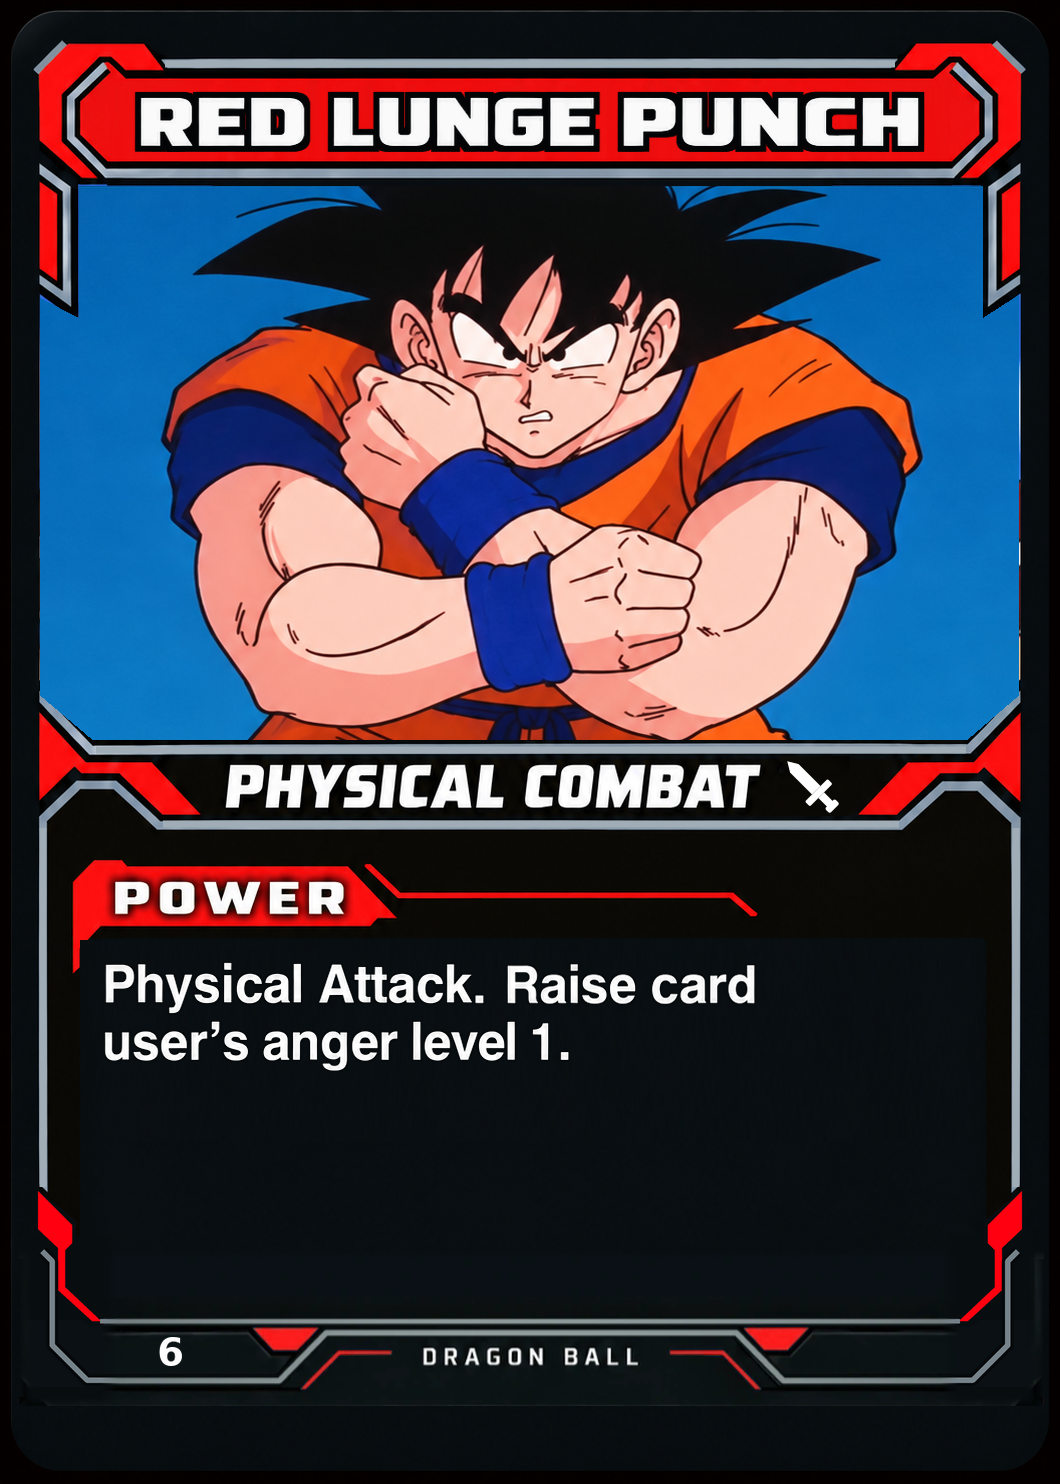
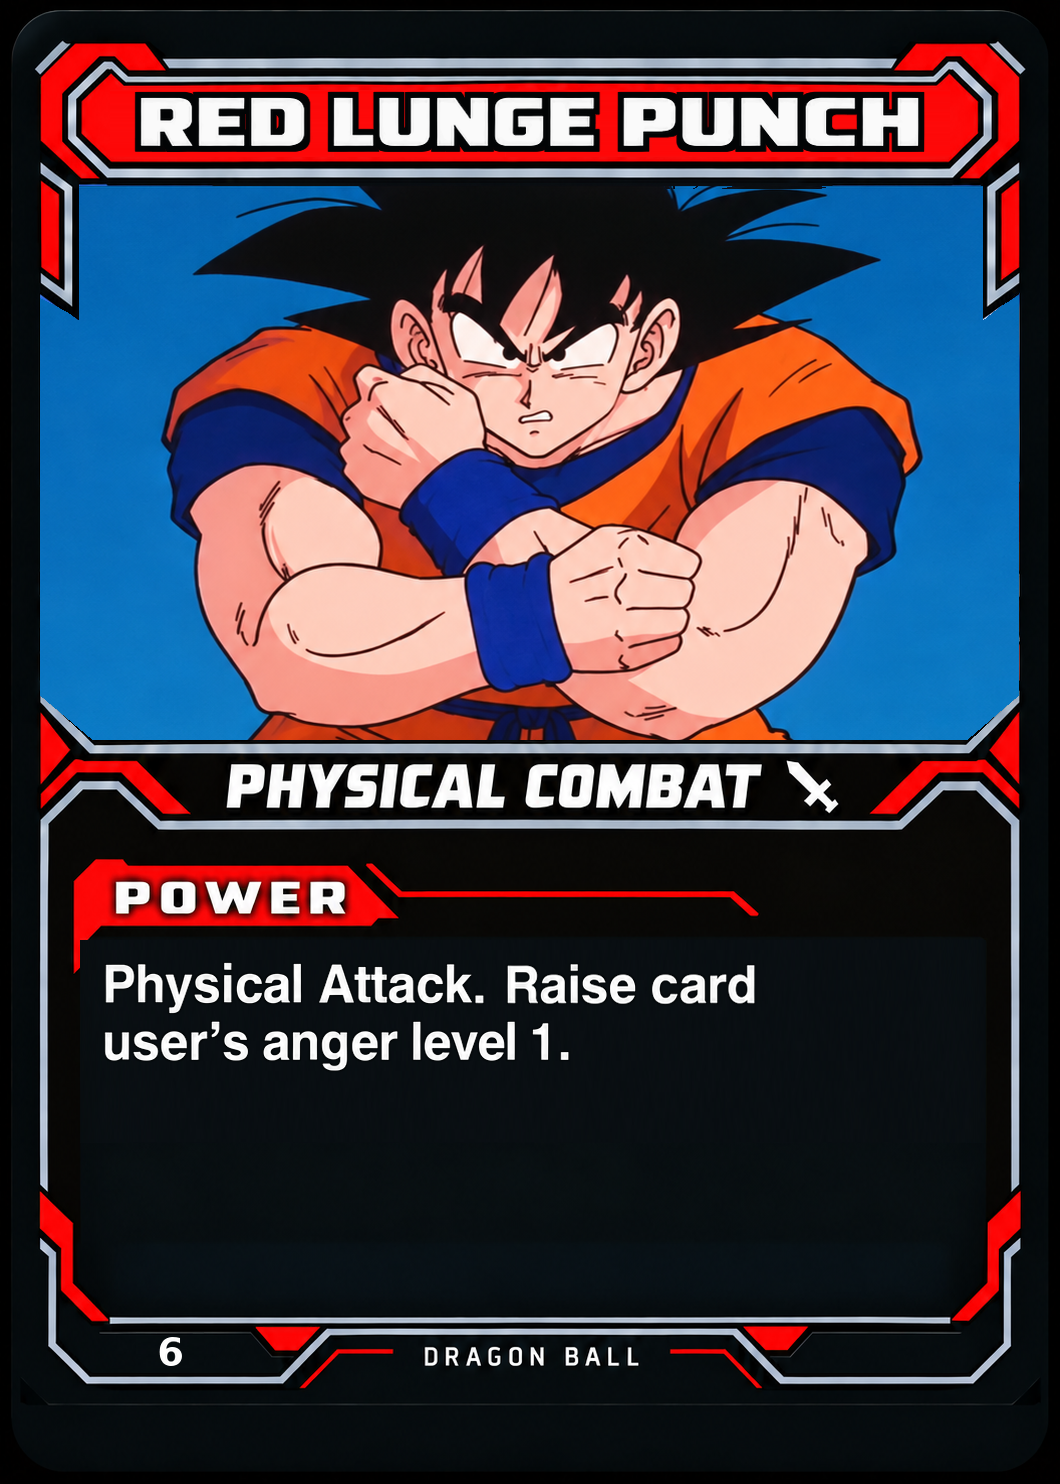
Publish approved connected frames and fresh Raditz artwork for Saiyan cards 1–10

diff --git a/public/cards/catalog.js b/public/cards/catalog.js
@@ -7,7 +7,7 @@ export const catalog = [
     "style": "Orange",
     "set": "Saiyan Saga",
     "status": "Ready",
-    "image": "/assets/cards/saiyan-001-orange-standing-fist-punch.webp?v=63a04d79ea",
+    "image": "/assets/cards/saiyan-001-orange-standing-fist-punch.webp?v=9edd108ec5",
     "width": 1060,
     "height": 1484,
     "source": "https://retrodbzccg.com/card-images/saiyan-saga-commons/"
@@ -20,7 +20,7 @@ export const catalog = [
     "style": "Orange",
     "set": "Saiyan Saga",
     "status": "Ready",
-    "image": "/assets/cards/saiyan-002-orange-one-knuckle-punch.webp?v=75589d1571",
+    "image": "/assets/cards/saiyan-002-orange-one-knuckle-punch.webp?v=817ee94947",
     "width": 1060,
     "height": 1484,
     "source": "https://retrodbzccg.com/card-images/saiyan-saga-commons/"
@@ -33,7 +33,7 @@ export const catalog = [
     "style": "Orange",
     "set": "Saiyan Saga",
     "status": "Ready",
-    "image": "/assets/cards/saiyan-003-orange-two-knuckle-punch.webp?v=f057b6b199",
+    "image": "/assets/cards/saiyan-003-orange-two-knuckle-punch.webp?v=cbd15f131c",
     "width": 1060,
     "height": 1484,
     "source": "https://retrodbzccg.com/card-images/saiyan-saga-commons/"
@@ -46,7 +46,7 @@ export const catalog = [
     "style": "Orange",
     "set": "Saiyan Saga",
     "status": "Ready",
-    "image": "/assets/cards/saiyan-004-orange-leg-sweep.webp?v=529d389bfb",
+    "image": "/assets/cards/saiyan-004-orange-leg-sweep.webp?v=f1a4007b32",
     "width": 1060,
     "height": 1484,
     "source": "https://retrodbzccg.com/card-images/saiyan-saga-commons/"
@@ -59,7 +59,7 @@ export const catalog = [
     "style": "Orange",
     "set": "Saiyan Saga",
     "status": "Ready",
-    "image": "/assets/cards/saiyan-005-orange-arm-bar.webp?v=16e311c3ae",
+    "image": "/assets/cards/saiyan-005-orange-arm-bar.webp?v=f3503ee080",
     "width": 1060,
     "height": 1484,
     "source": "https://retrodbzccg.com/card-images/saiyan-saga-commons/"
@@ -72,7 +72,7 @@ export const catalog = [
     "style": "Red",
     "set": "Saiyan Saga",
     "status": "Ready",
-    "image": "/assets/cards/saiyan-006-red-lunge-punch.webp?v=793a3678a9",
+    "image": "/assets/cards/saiyan-006-red-lunge-punch.webp?v=6db40b2965",
     "width": 1060,
     "height": 1484,
     "source": "https://retrodbzccg.com/card-images/saiyan-saga-commons/"
@@ -85,7 +85,7 @@ export const catalog = [
     "style": "Red",
     "set": "Saiyan Saga",
     "status": "Ready",
-    "image": "/assets/cards/saiyan-007-red-reverse-punch.webp?v=1d1607a072",
+    "image": "/assets/cards/saiyan-007-red-reverse-punch.webp?v=9971330382",
     "width": 1060,
     "height": 1484,
     "source": "https://retrodbzccg.com/card-images/saiyan-saga-commons/"
@@ -98,7 +98,7 @@ export const catalog = [
     "style": "Red",
     "set": "Saiyan Saga",
     "status": "Ready",
-    "image": "/assets/cards/saiyan-008-red-knife-hand.webp?v=c1f3073cc3",
+    "image": "/assets/cards/saiyan-008-red-knife-hand.webp?v=2d6b4fa16d",
     "width": 1060,
     "height": 1484,
     "source": "https://retrodbzccg.com/card-images/saiyan-saga-commons/"
@@ -111,7 +111,7 @@ export const catalog = [
     "style": "Red",
     "set": "Saiyan Saga",
     "status": "Ready",
-    "image": "/assets/cards/saiyan-009-red-palm-heel-strike.webp?v=4f13ff0888",
+    "image": "/assets/cards/saiyan-009-red-palm-heel-strike.webp?v=95840730fb",
     "width": 1060,
     "height": 1484,
     "source": "https://retrodbzccg.com/card-images/saiyan-saga-commons/"
@@ -124,7 +124,7 @@ export const catalog = [
     "style": "Red",
     "set": "Saiyan Saga",
     "status": "Ready",
-    "image": "/assets/cards/saiyan-010-red-elbow-strike.webp?v=1cc6d47ded",
+    "image": "/assets/cards/saiyan-010-red-elbow-strike.webp?v=7eeb944710",
     "width": 1060,
     "height": 1484,
     "source": "https://retrodbzccg.com/card-images/saiyan-saga-commons/"

diff --git a/tools/card-frames/render-connected-frame-001-010.py b/tools/card-frames/render-connected-frame-001-010.py
@@ -1,0 +1,127 @@
+"""Export cards 1–10 using one approved frame and fresh imagegen Raditz art.
+
+The common frame is immutable. Existing artwork, title lettering, rules and
+number positions are taken from the prior published cards; #5 uses fresh art.
+This prevents independent generative edits from changing border geometry.
+Requires Pillow and NumPy.
+"""
+from pathlib import Path
+import hashlib
+import io
+import json
+import subprocess
+import numpy as np
+from PIL import Image, ImageDraw, ImageFilter
+
+ROOT = Path(__file__).resolve().parents[2]
+SOURCE_COMMIT = '8bff6c3c430850a13d20a77db203a7b0b42676cb'
+manifest_path = ROOT / 'docs/saiyan-approved-frame-001-010.json'
+manifest = json.loads(manifest_path.read_text())
+catalog_path = ROOT / 'public/cards/catalog.js'
+catalog = catalog_path.read_text()
+master = Image.open(Path(__file__).with_name('approved-connected-frame-raditz.png')).convert('RGB')
+assert master.size == (1060, 1484)
+W, H = master.size
+
+# Content regions do not touch any of the approved border rails or accents.
+art_mask = Image.new('L', (W, H))
+d = ImageDraw.Draw(art_mask)
+d.polygon([(79,183),(982,183),(982,321),(1018,292),(1018,695),
+           (968,741),(92,741),(40,695),(40,292),(79,321)], fill=255)
+title_box = (110, 90, 950, 157)
+rules_box = (80, 938, 987, 1143)
+number_box = (136, 1332, 204, 1373)
+content_mask = art_mask.copy()
+d = ImageDraw.Draw(content_mask)
+for box in (title_box, rules_box, number_box):
+    d.rectangle((box[0],box[1],box[2]-1,box[3]-1),fill=255)
+frame_pixels = np.array(content_mask) == 0
+art_boundary = (np.array(art_mask)>0) & (np.array(art_mask.filter(ImageFilter.MinFilter(13)))==0)
+first_frame = {}
+number_pixels = np.zeros((H,W),dtype=bool)
+number_pixels[number_box[1]:number_box[3],number_box[0]:number_box[2]] = True
+
+for card in manifest['updated']:
+    source_bytes = subprocess.check_output(['git','show',f"{SOURCE_COMMIT}:{card['path']}"],cwd=ROOT)
+    original = Image.open(io.BytesIO(source_bytes)).convert('RGB')
+    output = master.copy()
+    style = 'Orange' if card['number'] <= 5 else 'Red'
+    if style == 'Red':
+        rgb = np.array(output)
+        hsv = np.array(output.convert('HSV'))
+        orange = (hsv[:,:,0] < 38) & (hsv[:,:,1] > 100) & (rgb[:,:,0] > 55)
+        hsv[:,:,0][orange] = 0
+        recolored = np.array(Image.fromarray(hsv,'HSV').convert('RGB'))
+        rgb[orange] = recolored[orange]
+        output = Image.fromarray(rgb)
+    expected_art = np.array(original).copy()
+    if card['number'] != 5:
+        # The previous exports left a few blue master-art pixels at the upper
+        # window edges. Replace only those narrow remnants with adjacent art.
+        rgb = expected_art.astype(float)
+        blue = (rgb[:,:,2] > rgb[:,:,0]*1.25) & (rgb[:,:,2] > rgb[:,:,1]*1.2) & (rgb[:,:,2] > 50)
+        below_blue = np.roll(blue,-8,axis=0)
+        repair = art_boundary & blue & ~below_blue
+        repair[330:,:] = False
+        adjacent = np.roll(expected_art,-8,axis=0)
+        expected_art[repair] = adjacent[repair]
+        output.paste(Image.fromarray(expected_art),(0,0),art_mask)
+    # Reuse the original title glyphs without copying an old rectangular panel.
+    # Unmix neutral lettering from the orange/red background, preserving its
+    # antialiasing; use one smooth panel from the shared master underneath.
+    if card['number'] != 5:
+        x0,y0,x1,y1 = title_box
+        src = np.array(original).astype(float)
+        dst = np.array(output).astype(float)
+        height,width = y1-y0,x1-x0
+        mix_y = np.linspace(0,1,height)[:,None,None]
+        background = src[86,x0:x1][None,:,:]*(1-mix_y) + src[157,x0:x1][None,:,:]*mix_y
+        observed = src[y0:y1,x0:x1]
+        alpha = np.clip(1-(observed[:,:,0]-observed[:,:,2])/np.maximum(1,background[:,:,0]-background[:,:,2]),0,1)
+        alpha[alpha<0.025]=0
+        alpha[alpha>0.995]=1
+        foreground = np.clip((observed-background*(1-alpha[:,:,None]))/np.maximum(alpha[:,:,None],0.001),0,255)
+        mix_x = np.linspace(0,1,width)[None,:,None]
+        panel = dst[y0:y1,180][:,None,:]*(1-mix_x) + dst[y0:y1,880][:,None,:]*mix_x
+        dst[y0:y1,x0:x1] = foreground*alpha[:,:,None] + panel*(1-alpha[:,:,None])
+        output = Image.fromarray(np.uint8(np.clip(np.round(dst),0,255)))
+    output.paste(original.crop(rules_box),rules_box[:2])
+    # Clear master numeral with adjacent unprinted footer, retaining its background.
+    x0,y0,x1,y1 = number_box
+    blank = output.crop((207,y0,235,y1)).resize((x1-x0,y1-y0))
+    output.paste(blank,(x0,y0))
+    # Original numeral has no shadow; isolate its antialiased white glyph.
+    numeral = np.array(original.crop(number_box)).astype(float)
+    alpha = np.uint8(np.clip((numeral.min(axis=2)-40)*255/215,0,255))
+    output.paste('white',(x0,y0),Image.fromarray(alpha))
+
+    a = np.array(output)
+    if style not in first_frame:
+        first_frame[style] = a
+    else:
+        assert np.array_equal(a[frame_pixels],first_frame[style][frame_pixels]), 'Frame mismatch'
+    assert output.crop(rules_box).tobytes() == original.crop(rules_box).tobytes(), 'Rules changed'
+    if card['number'] != 5:
+        assert np.array_equal(a[np.array(art_mask)>0],expected_art[np.array(art_mask)>0]), 'Art changed'
+    path = ROOT / card['path']
+    buffer = io.BytesIO()
+    output.save(buffer,'WEBP',lossless=True,method=4)
+    data = buffer.getvalue()
+    assert Image.open(io.BytesIO(data)).convert('RGB').tobytes() == output.tobytes(), 'Lossless mismatch'
+    temporary = path.with_suffix('.tmp.webp')
+    temporary.write_bytes(data)
+    temporary.replace(path)
+    sha = hashlib.sha1(b'blob '+str(len(data)).encode()+b'\0'+data).hexdigest()
+    catalog = catalog.replace('?v='+card['sha'][:10],'?v='+sha[:10])
+    card['sha'] = sha
+
+manifest['design'] = 'Approved connected title and footer rails, continuous colored stepped Combat accents, fresh clean Raditz artwork on #5'
+manifest['frame_pixel_equality'] = 'Passed: every frame pixel identical within each style; shared sword and lettering placement'
+manifest['lossless_export_equality'] = 'Passed for all 10'
+manifest['content_preservation'] = 'Original title glyphs retained on a shared seamless title panel. Rules pixel-identical on all 10; original art retained on all except #5, with stray blue edge pixels removed. Numerals retain original glyph shapes and positions.'
+manifest['raditz_artwork'] = 'Fresh clean anime drawing from imagegen, replacing the repeatedly edited portrait on Orange Arm Bar #5.'
+manifest['source_commit'] = SOURCE_COMMIT
+manifest.pop('corner_cleanup',None)
+manifest_path.write_text(json.dumps(manifest,indent=2)+'\n')
+catalog_path.write_text(catalog)
+print('10 exports validated: identical shared frames, preserved text/art, lossless WebP.')

diff --git a/docs/saiyan-saga-upload-handoff.md b/docs/saiyan-saga-upload-handoff.md
@@ -2,6 +2,8 @@
 
 ## Latest approved test design: cards 1–10
 
+The latest approved #1–10 export uses connected silver title/footer rails and a continuous colored stepped stripe beside Physical Combat. Orange Arm Bar #5 has a fresh clean Raditz portrait. All ten are assembled from `tools/card-frames/approved-connected-frame-raditz.png` by `tools/card-frames/render-connected-frame-001-010.py`, preserving the published rules, existing title glyphs and artwork on the other nine cards. Frame pixels are identical within each color group. This supersedes the lower-corner-only renderer below; do not rerun the older renderer over these assets.
+
 The approved lower-corner cleanup is now applied to both sides of all ten cards. It removes the doubled gray rails and rough joins below the colored side tabs. Everything outside those corner regions is pixel-identical to the previous version. The renderer `tools/card-frames/apply-approved-corners-001-010.py` uses immutable source commit `f28f02145b9e1fde9fff21bdfb6a3820121948db` so it can be rerun safely.
 
 Cards #1–10 now use the user-approved Orange Arm Bar test frame with the exact reference footer, one shared sword on the right, and card numerals vertically centered at y=1351. These exports are 1060 × 1484 lossless WebP and supersede the earlier fixed-design exports for #1–10 only. #11 onward is unchanged. The shared frame and sword were verified by pixel comparison. `saiyan-approved-frame-001-010.json` records their image hashes and rules. Use #5 from this batch as the current visual master; do not rerun older renderers over these assets.
